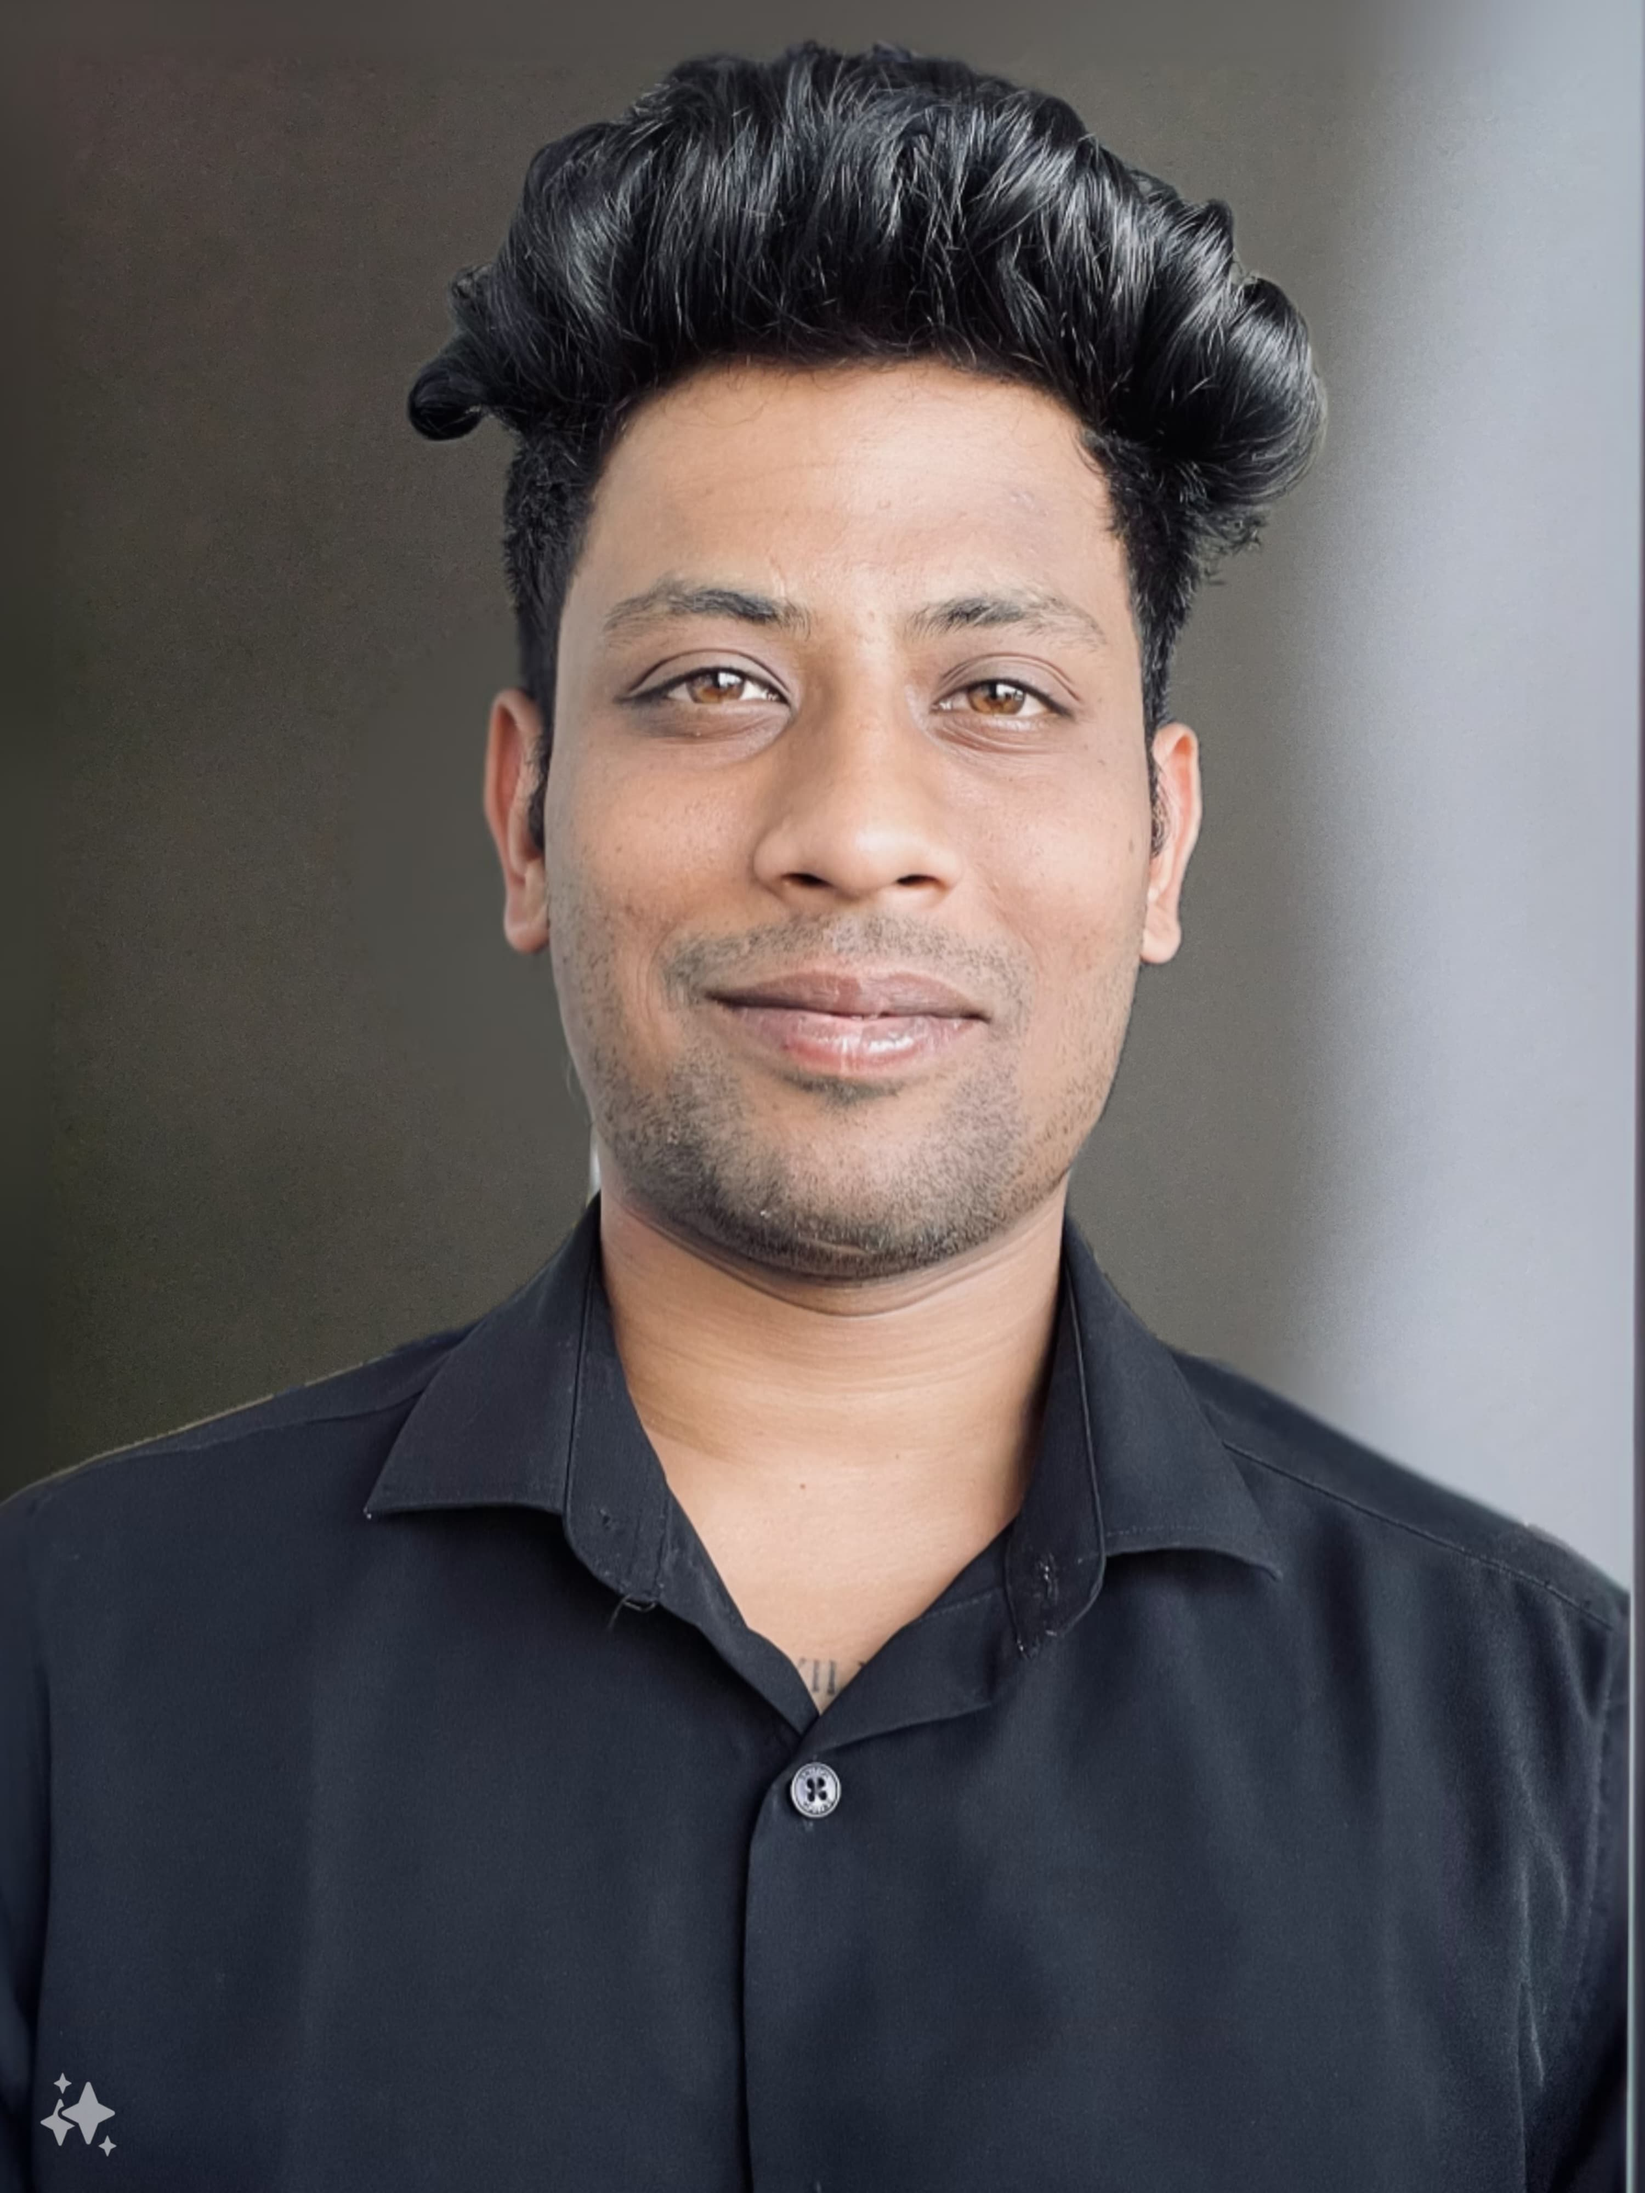
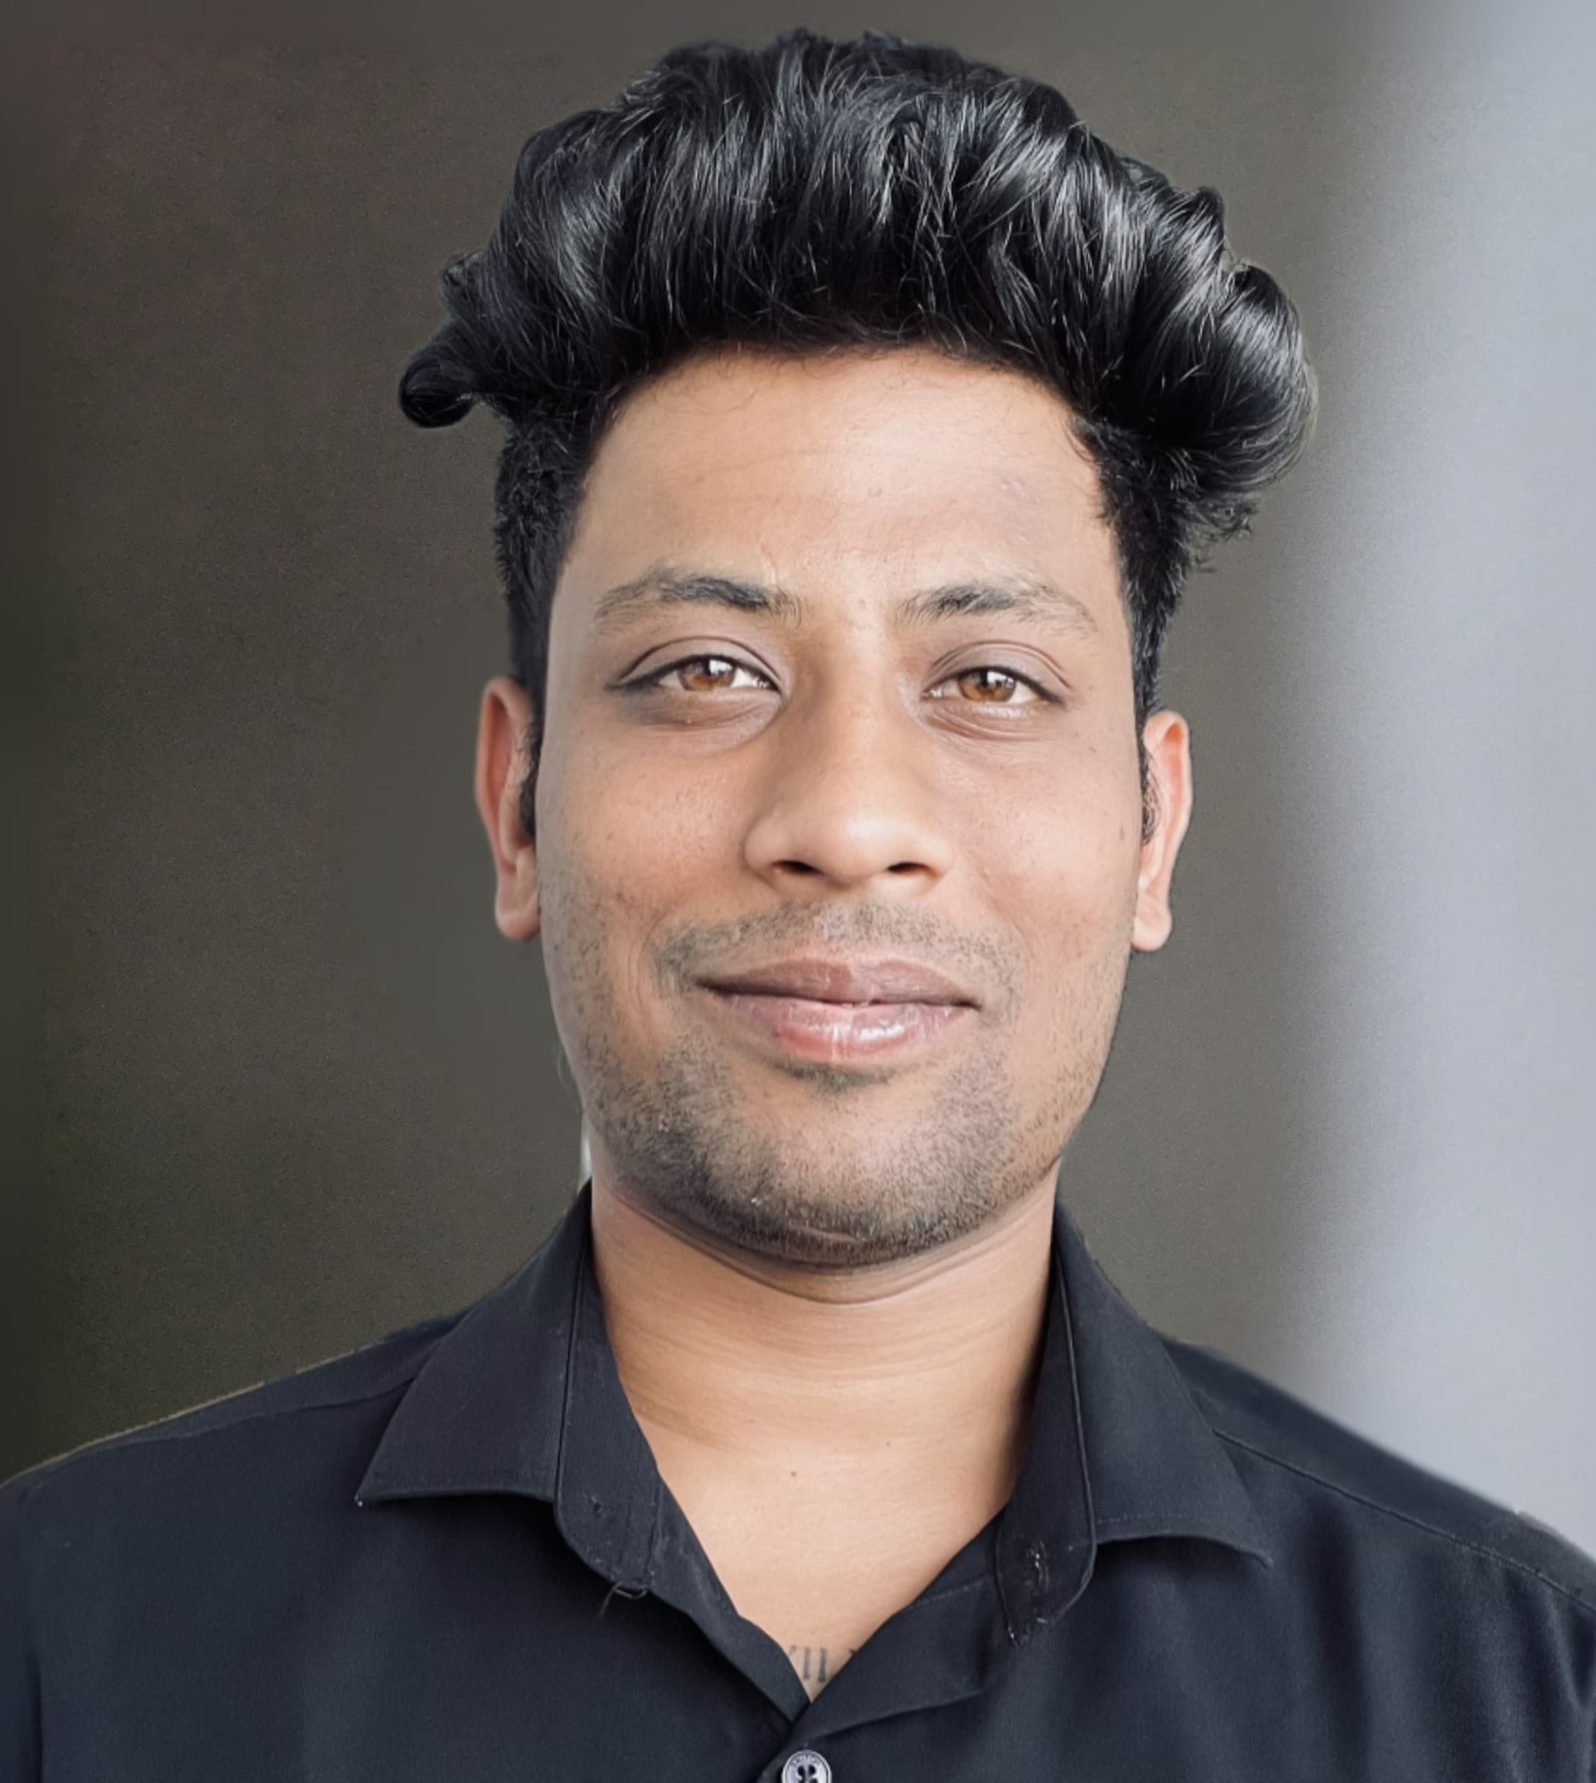
new updates

diff --git a/members/index.html b/members/index.html
@@ -554,10 +554,10 @@
     <p></p>
 </div>
 <div class="team-member">
-<p><img src="../img/profile.jpg"/>
+<p><img src="../img/shouzhi.jpg"/>
     <h4>Shouzhi Fang</h4>
     <p>PhD student<br/>
-    <a href="#"><span class="twemoji"><svg xmlns="http://www.w3.org/2000/svg" viewBox="0 0 576 512"><!--! Font Awesome Free 6.7.2 by @fontawesome - https://fontawesome.com License - https://fontawesome.com/license/free (Icons: CC BY 4.0, Fonts: SIL OFL 1.1, Code: MIT License) Copyright 2024 Fonticons, Inc.--><path d="M543.8 287.6c17 0 32-14 32-32.1 1-9-3-17-11-24L512 185V64c0-17.7-14.3-32-32-32h-32c-17.7 0-32 14.3-32 32v36.7L309.5 7c-6-5-14-7-21-7s-15 1-22 8L10 231.5c-7 7-10 15-10 24 0 18 14 32.1 32 32.1h32v69.7c-.1.9-.1 1.8-.1 2.8v112c0 22.1 17.9 40 40 40h16c1.2 0 2.4-.1 3.6-.2 1.5.1 3 .2 4.5.2h55.9c22.1 0 40-17.9 40-40v-88c0-17.7 14.3-32 32-32h64c17.7 0 32 14.3 32 32v88c0 22.1 17.9 40 40 40h56.5c1.4 0 2.8 0 4.2-.1 1.1.1 2.2.1 3.3.1h16c22.1 0 40-17.9 40-40v-16.2c.3-2.6.5-5.3.5-8.1l-.7-160.2h32z"/></svg></span></a> 
+    <a href="https://frank1412.github.io/"><span class="twemoji"><svg xmlns="http://www.w3.org/2000/svg" viewBox="0 0 576 512"><!--! Font Awesome Free 6.7.2 by @fontawesome - https://fontawesome.com License - https://fontawesome.com/license/free (Icons: CC BY 4.0, Fonts: SIL OFL 1.1, Code: MIT License) Copyright 2024 Fonticons, Inc.--><path d="M543.8 287.6c17 0 32-14 32-32.1 1-9-3-17-11-24L512 185V64c0-17.7-14.3-32-32-32h-32c-17.7 0-32 14.3-32 32v36.7L309.5 7c-6-5-14-7-21-7s-15 1-22 8L10 231.5c-7 7-10 15-10 24 0 18 14 32.1 32 32.1h32v69.7c-.1.9-.1 1.8-.1 2.8v112c0 22.1 17.9 40 40 40h16c1.2 0 2.4-.1 3.6-.2 1.5.1 3 .2 4.5.2h55.9c22.1 0 40-17.9 40-40v-88c0-17.7 14.3-32 32-32h64c17.7 0 32 14.3 32 32v88c0 22.1 17.9 40 40 40h56.5c1.4 0 2.8 0 4.2-.1 1.1.1 2.2.1 3.3.1h16c22.1 0 40-17.9 40-40v-16.2c.3-2.6.5-5.3.5-8.1l-.7-160.2h32z"/></svg></span></a> 
     <p></p>
 </div>
 <div class="team-member">
@@ -565,6 +565,13 @@
     <h4>Uday Devaraj</h4>
     <p>PhD student<br/>
     <a href="#"><span class="twemoji"><svg xmlns="http://www.w3.org/2000/svg" viewBox="0 0 576 512"><!--! Font Awesome Free 6.7.2 by @fontawesome - https://fontawesome.com License - https://fontawesome.com/license/free (Icons: CC BY 4.0, Fonts: SIL OFL 1.1, Code: MIT License) Copyright 2024 Fonticons, Inc.--><path d="M543.8 287.6c17 0 32-14 32-32.1 1-9-3-17-11-24L512 185V64c0-17.7-14.3-32-32-32h-32c-17.7 0-32 14.3-32 32v36.7L309.5 7c-6-5-14-7-21-7s-15 1-22 8L10 231.5c-7 7-10 15-10 24 0 18 14 32.1 32 32.1h32v69.7c-.1.9-.1 1.8-.1 2.8v112c0 22.1 17.9 40 40 40h16c1.2 0 2.4-.1 3.6-.2 1.5.1 3 .2 4.5.2h55.9c22.1 0 40-17.9 40-40v-88c0-17.7 14.3-32 32-32h64c17.7 0 32 14.3 32 32v88c0 22.1 17.9 40 40 40h56.5c1.4 0 2.8 0 4.2-.1 1.1.1 2.2.1 3.3.1h16c22.1 0 40-17.9 40-40v-16.2c.3-2.6.5-5.3.5-8.1l-.7-160.2h32z"/></svg></span></a> 
+    <p></p>
+</div>
+<div class="team-member">
+<p><img src="../img/shivam.jpg"/>
+    <h4>Shivam Kumar</h4>
+    <p>PhD student<br/>
+    <a href="https://shivam-2315.github.io/"><span class="twemoji"><svg xmlns="http://www.w3.org/2000/svg" viewBox="0 0 576 512"><!--! Font Awesome Free 6.7.2 by @fontawesome - https://fontawesome.com License - https://fontawesome.com/license/free (Icons: CC BY 4.0, Fonts: SIL OFL 1.1, Code: MIT License) Copyright 2024 Fonticons, Inc.--><path d="M543.8 287.6c17 0 32-14 32-32.1 1-9-3-17-11-24L512 185V64c0-17.7-14.3-32-32-32h-32c-17.7 0-32 14.3-32 32v36.7L309.5 7c-6-5-14-7-21-7s-15 1-22 8L10 231.5c-7 7-10 15-10 24 0 18 14 32.1 32 32.1h32v69.7c-.1.9-.1 1.8-.1 2.8v112c0 22.1 17.9 40 40 40h16c1.2 0 2.4-.1 3.6-.2 1.5.1 3 .2 4.5.2h55.9c22.1 0 40-17.9 40-40v-88c0-17.7 14.3-32 32-32h64c17.7 0 32 14.3 32 32v88c0 22.1 17.9 40 40 40h56.5c1.4 0 2.8 0 4.2-.1 1.1.1 2.2.1 3.3.1h16c22.1 0 40-17.9 40-40v-16.2c.3-2.6.5-5.3.5-8.1l-.7-160.2h32z"/></svg></span></a> 
     <p></p>
 </div>
 </div>

diff --git a/index.html b/index.html
@@ -567,7 +567,7 @@ and systems. We are interested in several domains of computing, including networ
 <h2 id="key-topics">Key Topics</h2>
 <p>Network security, system security, software testing, IoT security</p>
 <h2 id="contact">Contact</h2>
-<p><span class="twemoji"><svg xmlns="http://www.w3.org/2000/svg" viewBox="0 0 384 512"><!--! Font Awesome Free 6.7.2 by @fontawesome - https://fontawesome.com License - https://fontawesome.com/license/free (Icons: CC BY 4.0, Fonts: SIL OFL 1.1, Code: MIT License) Copyright 2024 Fonticons, Inc.--><path d="M215.7 499.2C267 435 384 279.4 384 192 384 86 298 0 192 0S0 86 0 192c0 87.4 117 243 168.3 307.2 12.3 15.3 35.1 15.3 47.4 0M192 128a64 64 0 1 1 0 128 64 64 0 1 1 0-128"/></svg></span> <a href="https://goo.gl/maps/NV5D6nbNHHq1pRtk7">CST 4-186</a>,
+<p><span class="twemoji"><svg xmlns="http://www.w3.org/2000/svg" viewBox="0 0 384 512"><!--! Font Awesome Free 6.7.2 by @fontawesome - https://fontawesome.com License - https://fontawesome.com/license/free (Icons: CC BY 4.0, Fonts: SIL OFL 1.1, Code: MIT License) Copyright 2024 Fonticons, Inc.--><path d="M215.7 499.2C267 435 384 279.4 384 192 384 86 298 0 192 0S0 86 0 192c0 87.4 117 243 168.3 307.2 12.3 15.3 35.1 15.3 47.4 0M192 128a64 64 0 1 1 0 128 64 64 0 1 1 0-128"/></svg></span> <a href="https://goo.gl/maps/NV5D6nbNHHq1pRtk7">CST 4-202A</a>,
 Department of Electrical Engineering and Computer Science (EECS),
 Syracuse University, NY</p>
 
